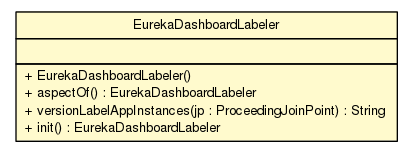
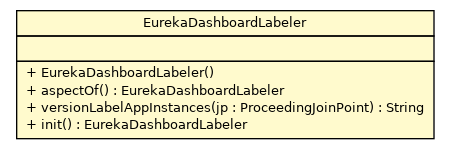
Creating site for spring-cloud-eureka-dashboard-labeler-1.0.1.U1

Changed region(s): [[0.0291, 0.0537, 0.9879, 0.9396]]

diff --git a/release/build-docker/spring-cloud-service-discovery/spring-cloud-eureka/spring-cloud-eureka-dashboard-labeler/checkstyle.html b/release/build-docker/spring-cloud-service-discovery/spring-cloud-eureka/spring-cloud-eureka-dashboard-labeler/checkstyle.html
@@ -1,13 +1,13 @@
 <!DOCTYPE html>
 <!--
- | Generated by Apache Maven Doxia Site Renderer 1.8.1 from org.apache.maven.plugins:maven-checkstyle-plugin:3.0.0:checkstyle at 2018-10-03
+ | Generated by Apache Maven Doxia Site Renderer 1.8.1 from org.apache.maven.plugins:maven-checkstyle-plugin:3.0.0:checkstyle at 2018-10-16
  | Rendered using Apache Maven Fluido Skin 1.7
 -->
 <html xmlns="http://www.w3.org/1999/xhtml" xml:lang="en" lang="en">
   <head>
     <meta charset="UTF-8" />
     <meta name="viewport" content="width=device-width, initial-scale=1.0" />
-    <meta name="Date-Revision-yyyymmdd" content="20181003" />
+    <meta name="Date-Revision-yyyymmdd" content="20181016" />
     <meta http-equiv="Content-Language" content="en" />
     <title>spring-cloud-eureka-dashboard-labeler &#x2013; Checkstyle Results</title>
     <link rel="stylesheet" href="./css/apache-maven-fluido-1.7.min.css" />
@@ -74,7 +74,7 @@
 
       <div id="breadcrumbs">
         <ul class="breadcrumb">
-        <li id="publishDate">Last Published: 2018-10-03<span class="divider">|</span>
+        <li id="publishDate">Last Published: 2018-10-16<span class="divider">|</span>
 </li>
           <li id="projectVersion">Version: 1.0.1.U1</li>
         </ul>
@@ -108,7 +108,7 @@
         <div id="bodyColumn"  class="span10" >
 <div class="section">
 <h2><a name="Checkstyle_Results"></a>Checkstyle Results</h2>
-<p>The following document contains the results of <a class="externalLink" href="http://checkstyle.sourceforge.net/">Checkstyle</a> 8.10 with https://github.com/ci-and-cd/maven-build/raw/develop/src/main/checkstyle/google_checks_8.10.xml ruleset.&#160;<a href="checkstyle.rss"><img alt="rss feed" src="images/rss.png" /></a></p></div>
+<p>The following document contains the results of <a class="externalLink" href="http://checkstyle.sourceforge.net/">Checkstyle</a> 8.10 with https://gitlab.com/ci-and-cd/maven-build/raw/develop/src/main/checkstyle/google_checks_8.10.xml ruleset.&#160;<a href="checkstyle.rss"><img alt="rss feed" src="images/rss.png" /></a></p></div>
 <div class="section">
 <h2><a name="Summary"></a>Summary</h2>
 <table border="0" class="table table-striped">

diff --git a/release/build-docker/spring-cloud-service-discovery/spring-cloud-eureka/spring-cloud-eureka-dashboard-labeler/pmd.html b/release/build-docker/spring-cloud-service-discovery/spring-cloud-eureka/spring-cloud-eureka-dashboard-labeler/pmd.html
@@ -1,6 +1,6 @@
 <!DOCTYPE html PUBLIC "-//W3C//DTD XHTML 1.0 Transitional//EN" "http://www.w3.org/TR/xhtml1/DTD/xhtml1-transitional.dtd">
-<!-- Generated by Apache Maven Doxia Site Renderer 1.7 at 2018-10-03 -->
-<html xmlns="http://www.w3.org/1999/xhtml" xml:lang="en" lang="en">
+<!-- Generated by Apache Maven Doxia Site Renderer 1.7 at 2018-10-16 -->
+<html xmlns="http://www.w3.org/1999/xhtml" xml:lang="zh" lang="zh">
   <head>
     <meta http-equiv="Content-Type" content="text/html; charset=UTF-8" />
     <title>PMD Results</title>
@@ -10,8 +10,8 @@
       @import url("./css/site.css");
     </style>
     <link rel="stylesheet" href="./css/print.css" type="text/css" media="print" />
-    <meta name="Date-Revision-yyyymmdd" content="20181003" />
-    <meta http-equiv="Content-Language" content="en" />
+    <meta name="Date-Revision-yyyymmdd" content="20181016" />
+    <meta http-equiv="Content-Language" content="zh" />
         
         </head>
   <body class="composite">
@@ -23,8 +23,8 @@
     <div id="breadcrumbs">
           
                 <div class="xleft">
-        <span id="publishDate">Last Published: 2018-10-03</span>
-                  &nbsp;| <span id="projectVersion">Version: 1.0.1.U1</span>
+        <span id="publishDate">最近更新: 2018-10-16</span>
+                  &nbsp;| <span id="projectVersion">版本: 1.0.1.U1</span>
                       </div>
             <div class="xright">      
       </div>
@@ -35,8 +35,8 @@
     <div id="leftColumn">
       <div id="navcolumn">
            
-                                      <a href="http://maven.apache.org/" title="Built by Maven" class="poweredBy">
-        <img class="poweredBy" alt="Built by Maven" src="./images/logos/maven-feather.png" />
+                                      <a href="http://maven.apache.org/" title="构建依靠 Maven" class="poweredBy">
+        <img class="poweredBy" alt="构建依靠 Maven" src="./images/logos/maven-feather.png" />
       </a>
                  
             </div>

diff --git a/release/build-docker/spring-cloud-service-discovery/spring-cloud-eureka/spring-cloud-eureka-dashboard-labeler/apidocs/cn/home1/cloud/netflix/eureka/server/EurekaDashboardLabeler.html b/release/build-docker/spring-cloud-service-discovery/spring-cloud-eureka/spring-cloud-eureka-dashboard-labeler/apidocs/cn/home1/cloud/netflix/eureka/server/EurekaDashboardLabeler.html
@@ -2,10 +2,10 @@
 <!-- NewPage -->
 <html lang="en">
 <head>
-<!-- Generated by javadoc (1.8.0_151) on Tue Oct 02 22:57:12 UTC 2018 -->
+<!-- Generated by javadoc (1.8.0_181) on Tue Oct 16 15:10:20 UTC 2018 -->
 <meta http-equiv="Content-Type" content="text/html; charset=UTF-8">
 <title>EurekaDashboardLabeler (spring-cloud-eureka-dashboard-labeler 1.0.1.U1 API)</title>
-<meta name="date" content="2018-10-02">
+<meta name="date" content="2018-10-16">
 <link rel="stylesheet" type="text/css" href="../../../../../../stylesheet.css" title="Style">
 <script type="text/javascript" src="../../../../../../script.js"></script>
 </head>
@@ -95,8 +95,8 @@ var activeTableTab = "activeTableTab";
 <div class="subTitle">cn.home1.cloud.netflix.eureka.server</div>
 <h2 title="Class EurekaDashboardLabeler" class="title">Class EurekaDashboardLabeler</h2>
 <map id="G" name="G">
-<area shape="rect" id="node1_0" href="./EurekaDashboardLabeler.html" title="cn.home1.cloud.netflix.eureka.server.EurekaDashboardLabeler" alt="" coords="16,11,397,141"/>
-<area shape="rect" id="node1" href="./EurekaDashboardLabeler.html" title="&lt;TABLE&gt;" alt="" coords="5,6,408,146"/>
+<area shape="rect" id="node1_0" href="./EurekaDashboardLabeler.html" title="cn.home1.cloud.netflix.eureka.server.EurekaDashboardLabeler" alt="" coords="16,11,433,139"/>
+<area shape="rect" id="node1" href="./EurekaDashboardLabeler.html" title="&lt;TABLE&gt;" alt="" coords="5,5,444,144"/>
 </map>
 <!-- UML diagram added by UMLGraph version R5_6-24-gf6e263 (http://www.umlgraph.org/) -->
 <div align="center"><img src="EurekaDashboardLabeler.png" alt="Package class diagram package EurekaDashboardLabeler" usemap="#G" border=0/></div>

diff --git a/release/build-docker/spring-cloud-service-discovery/spring-cloud-eureka/spring-cloud-eureka-dashboard-labeler/apidocs/cn/home1/cloud/netflix/eureka/server/package-summary.html b/release/build-docker/spring-cloud-service-discovery/spring-cloud-eureka/spring-cloud-eureka-dashboard-labeler/apidocs/cn/home1/cloud/netflix/eureka/server/package-summary.html
@@ -2,10 +2,10 @@
 <!-- NewPage -->
 <html lang="en">
 <head>
-<!-- Generated by javadoc (1.8.0_151) on Tue Oct 02 22:57:12 UTC 2018 -->
+<!-- Generated by javadoc (1.8.0_181) on Tue Oct 16 15:10:20 UTC 2018 -->
 <meta http-equiv="Content-Type" content="text/html; charset=UTF-8">
 <title>cn.home1.cloud.netflix.eureka.server (spring-cloud-eureka-dashboard-labeler 1.0.1.U1 API)</title>
-<meta name="date" content="2018-10-02">
+<meta name="date" content="2018-10-16">
 <link rel="stylesheet" type="text/css" href="../../../../../../stylesheet.css" title="Style">
 <script type="text/javascript" src="../../../../../../script.js"></script>
 </head>
@@ -72,8 +72,8 @@
 <div class="header">
 <h1 title="Package" class="title">Package&nbsp;cn.home1.cloud.netflix.eureka.server</h1>
 <map id="G" name="G">
-<area shape="rect" id="node1_0" href="./EurekaDashboardLabeler.html" title="cn.home1.cloud.netflix.eureka.server.EurekaDashboardLabeler" alt="" coords="16,11,397,141"/>
-<area shape="rect" id="node1" href="./EurekaDashboardLabeler.html" title="&lt;TABLE&gt;" alt="" coords="5,6,408,146"/>
+<area shape="rect" id="node1_0" href="./EurekaDashboardLabeler.html" title="cn.home1.cloud.netflix.eureka.server.EurekaDashboardLabeler" alt="" coords="16,11,433,139"/>
+<area shape="rect" id="node1" href="./EurekaDashboardLabeler.html" title="&lt;TABLE&gt;" alt="" coords="5,5,444,144"/>
 </map>
 <!-- UML diagram added by UMLGraph version R5_6-24-gf6e263 (http://www.umlgraph.org/) -->
 <div align="center"><img src="cn.home1.cloud.netflix.eureka.server.png" alt="Package class diagram package cn.home1.cloud.netflix.eureka.server" usemap="#G" border=0/></div>

diff --git a/release/build-docker/spring-cloud-service-discovery/spring-cloud-eureka/spring-cloud-eureka-dashboard-labeler/distribution-management.html b/release/build-docker/spring-cloud-service-discovery/spring-cloud-eureka/spring-cloud-eureka-dashboard-labeler/distribution-management.html
@@ -1,13 +1,13 @@
 <!DOCTYPE html>
 <!--
- | Generated by Apache Maven Doxia Site Renderer 1.8.1 from org.apache.maven.plugins:maven-project-info-reports-plugin:3.0.0:distribution-management at 2018-10-03
+ | Generated by Apache Maven Doxia Site Renderer 1.8.1 from org.apache.maven.plugins:maven-project-info-reports-plugin:3.0.0:distribution-management at 2018-10-16
  | Rendered using Apache Maven Fluido Skin 1.7
 -->
 <html xmlns="http://www.w3.org/1999/xhtml" xml:lang="en" lang="en">
   <head>
     <meta charset="UTF-8" />
     <meta name="viewport" content="width=device-width, initial-scale=1.0" />
-    <meta name="Date-Revision-yyyymmdd" content="20181003" />
+    <meta name="Date-Revision-yyyymmdd" content="20181016" />
     <meta http-equiv="Content-Language" content="en" />
     <title>spring-cloud-eureka-dashboard-labeler &#x2013; Project Distribution Management</title>
     <link rel="stylesheet" href="./css/apache-maven-fluido-1.7.min.css" />
@@ -74,7 +74,7 @@
 
       <div id="breadcrumbs">
         <ul class="breadcrumb">
-        <li id="publishDate">Last Published: 2018-10-03<span class="divider">|</span>
+        <li id="publishDate">Last Published: 2018-10-16<span class="divider">|</span>
 </li>
           <li id="projectVersion">Version: 1.0.1.U1</li>
         </ul>

diff --git a/release/build-docker/spring-cloud-service-discovery/spring-cloud-eureka/spring-cloud-eureka-dashboard-labeler/dependency-convergence.html b/release/build-docker/spring-cloud-service-discovery/spring-cloud-eureka/spring-cloud-eureka-dashboard-labeler/dependency-convergence.html
@@ -1,13 +1,13 @@
 <!DOCTYPE html>
 <!--
- | Generated by Apache Maven Doxia Site Renderer 1.8.1 from org.apache.maven.plugins:maven-project-info-reports-plugin:3.0.0:dependency-convergence at 2018-10-03
+ | Generated by Apache Maven Doxia Site Renderer 1.8.1 from org.apache.maven.plugins:maven-project-info-reports-plugin:3.0.0:dependency-convergence at 2018-10-16
  | Rendered using Apache Maven Fluido Skin 1.7
 -->
 <html xmlns="http://www.w3.org/1999/xhtml" xml:lang="en" lang="en">
   <head>
     <meta charset="UTF-8" />
     <meta name="viewport" content="width=device-width, initial-scale=1.0" />
-    <meta name="Date-Revision-yyyymmdd" content="20181003" />
+    <meta name="Date-Revision-yyyymmdd" content="20181016" />
     <meta http-equiv="Content-Language" content="en" />
     <title>spring-cloud-eureka-dashboard-labeler &#x2013; Reactor Dependency Convergence</title>
     <link rel="stylesheet" href="./css/apache-maven-fluido-1.7.min.css" />
@@ -74,7 +74,7 @@
 
       <div id="breadcrumbs">
         <ul class="breadcrumb">
-        <li id="publishDate">Last Published: 2018-10-03<span class="divider">|</span>
+        <li id="publishDate">Last Published: 2018-10-16<span class="divider">|</span>
 </li>
           <li id="projectVersion">Version: 1.0.1.U1</li>
         </ul>

diff --git a/release/build-docker/spring-cloud-service-discovery/spring-cloud-eureka/spring-cloud-eureka-dashboard-labeler/plugin-management.html b/release/build-docker/spring-cloud-service-discovery/spring-cloud-eureka/spring-cloud-eureka-dashboard-labeler/plugin-management.html
@@ -1,13 +1,13 @@
 <!DOCTYPE html>
 <!--
- | Generated by Apache Maven Doxia Site Renderer 1.8.1 from org.apache.maven.plugins:maven-project-info-reports-plugin:3.0.0:plugin-management at 2018-10-03
+ | Generated by Apache Maven Doxia Site Renderer 1.8.1 from org.apache.maven.plugins:maven-project-info-reports-plugin:3.0.0:plugin-management at 2018-10-16
  | Rendered using Apache Maven Fluido Skin 1.7
 -->
 <html xmlns="http://www.w3.org/1999/xhtml" xml:lang="en" lang="en">
   <head>
     <meta charset="UTF-8" />
     <meta name="viewport" content="width=device-width, initial-scale=1.0" />
-    <meta name="Date-Revision-yyyymmdd" content="20181003" />
+    <meta name="Date-Revision-yyyymmdd" content="20181016" />
     <meta http-equiv="Content-Language" content="en" />
     <title>spring-cloud-eureka-dashboard-labeler &#x2013; Project Plugin Management</title>
     <link rel="stylesheet" href="./css/apache-maven-fluido-1.7.min.css" />
@@ -74,7 +74,7 @@
 
       <div id="breadcrumbs">
         <ul class="breadcrumb">
-        <li id="publishDate">Last Published: 2018-10-03<span class="divider">|</span>
+        <li id="publishDate">Last Published: 2018-10-16<span class="divider">|</span>
 </li>
           <li id="projectVersion">Version: 1.0.1.U1</li>
         </ul>

diff --git a/release/build-docker/spring-cloud-service-discovery/spring-cloud-eureka/spring-cloud-eureka-dashboard-labeler/dependency-info.html b/release/build-docker/spring-cloud-service-discovery/spring-cloud-eureka/spring-cloud-eureka-dashboard-labeler/dependency-info.html
@@ -1,13 +1,13 @@
 <!DOCTYPE html>
 <!--
- | Generated by Apache Maven Doxia Site Renderer 1.8.1 from org.apache.maven.plugins:maven-project-info-reports-plugin:3.0.0:dependency-info at 2018-10-03
+ | Generated by Apache Maven Doxia Site Renderer 1.8.1 from org.apache.maven.plugins:maven-project-info-reports-plugin:3.0.0:dependency-info at 2018-10-16
  | Rendered using Apache Maven Fluido Skin 1.7
 -->
 <html xmlns="http://www.w3.org/1999/xhtml" xml:lang="en" lang="en">
   <head>
     <meta charset="UTF-8" />
     <meta name="viewport" content="width=device-width, initial-scale=1.0" />
-    <meta name="Date-Revision-yyyymmdd" content="20181003" />
+    <meta name="Date-Revision-yyyymmdd" content="20181016" />
     <meta http-equiv="Content-Language" content="en" />
     <title>spring-cloud-eureka-dashboard-labeler &#x2013; Dependency Information</title>
     <link rel="stylesheet" href="./css/apache-maven-fluido-1.7.min.css" />
@@ -74,7 +74,7 @@
 
       <div id="breadcrumbs">
         <ul class="breadcrumb">
-        <li id="publishDate">Last Published: 2018-10-03<span class="divider">|</span>
+        <li id="publishDate">Last Published: 2018-10-16<span class="divider">|</span>
 </li>
           <li id="projectVersion">Version: 1.0.1.U1</li>
         </ul>

diff --git a/release/build-docker/spring-cloud-service-discovery/spring-cloud-eureka/spring-cloud-eureka-dashboard-labeler/project-info.html b/release/build-docker/spring-cloud-service-discovery/spring-cloud-eureka/spring-cloud-eureka-dashboard-labeler/project-info.html
@@ -1,13 +1,13 @@
 <!DOCTYPE html>
 <!--
- | Generated by Apache Maven Doxia Site Renderer 1.8.1 from org.apache.maven.plugins:maven-site-plugin:3.7.1:CategorySummaryDocumentRenderer at 2018-10-03
+ | Generated by Apache Maven Doxia Site Renderer 1.8.1 from org.apache.maven.plugins:maven-site-plugin:3.7.1:CategorySummaryDocumentRenderer at 2018-10-16
  | Rendered using Apache Maven Fluido Skin 1.7
 -->
 <html xmlns="http://www.w3.org/1999/xhtml" xml:lang="en" lang="en">
   <head>
     <meta charset="UTF-8" />
     <meta name="viewport" content="width=device-width, initial-scale=1.0" />
-    <meta name="Date-Revision-yyyymmdd" content="20181003" />
+    <meta name="Date-Revision-yyyymmdd" content="20181016" />
     <meta http-equiv="Content-Language" content="en" />
     <title>spring-cloud-eureka-dashboard-labeler &#x2013; Project Information</title>
     <link rel="stylesheet" href="./css/apache-maven-fluido-1.7.min.css" />
@@ -74,7 +74,7 @@
 
       <div id="breadcrumbs">
         <ul class="breadcrumb">
-        <li id="publishDate">Last Published: 2018-10-03<span class="divider">|</span>
+        <li id="publishDate">Last Published: 2018-10-16<span class="divider">|</span>
 </li>
           <li id="projectVersion">Version: 1.0.1.U1</li>
         </ul>

diff --git a/release/build-docker/spring-cloud-service-discovery/spring-cloud-eureka/spring-cloud-eureka-dashboard-labeler/issue-management.html b/release/build-docker/spring-cloud-service-discovery/spring-cloud-eureka/spring-cloud-eureka-dashboard-labeler/issue-management.html
@@ -1,13 +1,13 @@
 <!DOCTYPE html>
 <!--
- | Generated by Apache Maven Doxia Site Renderer 1.8.1 from org.apache.maven.plugins:maven-project-info-reports-plugin:3.0.0:issue-management at 2018-10-03
+ | Generated by Apache Maven Doxia Site Renderer 1.8.1 from org.apache.maven.plugins:maven-project-info-reports-plugin:3.0.0:issue-management at 2018-10-16
  | Rendered using Apache Maven Fluido Skin 1.7
 -->
 <html xmlns="http://www.w3.org/1999/xhtml" xml:lang="en" lang="en">
   <head>
     <meta charset="UTF-8" />
     <meta name="viewport" content="width=device-width, initial-scale=1.0" />
-    <meta name="Date-Revision-yyyymmdd" content="20181003" />
+    <meta name="Date-Revision-yyyymmdd" content="20181016" />
     <meta http-equiv="Content-Language" content="en" />
     <title>spring-cloud-eureka-dashboard-labeler &#x2013; Issue Management</title>
     <link rel="stylesheet" href="./css/apache-maven-fluido-1.7.min.css" />
@@ -74,7 +74,7 @@
 
       <div id="breadcrumbs">
         <ul class="breadcrumb">
-        <li id="publishDate">Last Published: 2018-10-03<span class="divider">|</span>
+        <li id="publishDate">Last Published: 2018-10-16<span class="divider">|</span>
 </li>
           <li id="projectVersion">Version: 1.0.1.U1</li>
         </ul>

diff --git a/release/build-docker/spring-cloud-service-discovery/spring-cloud-eureka/spring-cloud-eureka-dashboard-labeler/project-reports.html b/release/build-docker/spring-cloud-service-discovery/spring-cloud-eureka/spring-cloud-eureka-dashboard-labeler/project-reports.html
@@ -1,13 +1,13 @@
 <!DOCTYPE html>
 <!--
- | Generated by Apache Maven Doxia Site Renderer 1.8.1 from org.apache.maven.plugins:maven-site-plugin:3.7.1:CategorySummaryDocumentRenderer at 2018-10-03
+ | Generated by Apache Maven Doxia Site Renderer 1.8.1 from org.apache.maven.plugins:maven-site-plugin:3.7.1:CategorySummaryDocumentRenderer at 2018-10-16
  | Rendered using Apache Maven Fluido Skin 1.7
 -->
 <html xmlns="http://www.w3.org/1999/xhtml" xml:lang="en" lang="en">
   <head>
     <meta charset="UTF-8" />
     <meta name="viewport" content="width=device-width, initial-scale=1.0" />
-    <meta name="Date-Revision-yyyymmdd" content="20181003" />
+    <meta name="Date-Revision-yyyymmdd" content="20181016" />
     <meta http-equiv="Content-Language" content="en" />
     <title>spring-cloud-eureka-dashboard-labeler &#x2013; Generated Reports</title>
     <link rel="stylesheet" href="./css/apache-maven-fluido-1.7.min.css" />
@@ -74,7 +74,7 @@
 
       <div id="breadcrumbs">
         <ul class="breadcrumb">
-        <li id="publishDate">Last Published: 2018-10-03<span class="divider">|</span>
+        <li id="publishDate">Last Published: 2018-10-16<span class="divider">|</span>
 </li>
           <li id="projectVersion">Version: 1.0.1.U1</li>
         </ul>

diff --git a/release/build-docker/spring-cloud-service-discovery/spring-cloud-eureka/spring-cloud-eureka-dashboard-labeler/dependencies.html b/release/build-docker/spring-cloud-service-discovery/spring-cloud-eureka/spring-cloud-eureka-dashboard-labeler/dependencies.html
@@ -1,13 +1,13 @@
 <!DOCTYPE html>
 <!--
- | Generated by Apache Maven Doxia Site Renderer 1.8.1 from org.apache.maven.plugins:maven-project-info-reports-plugin:3.0.0:dependencies at 2018-10-03
+ | Generated by Apache Maven Doxia Site Renderer 1.8.1 from org.apache.maven.plugins:maven-project-info-reports-plugin:3.0.0:dependencies at 2018-10-16
  | Rendered using Apache Maven Fluido Skin 1.7
 -->
 <html xmlns="http://www.w3.org/1999/xhtml" xml:lang="en" lang="en">
   <head>
     <meta charset="UTF-8" />
     <meta name="viewport" content="width=device-width, initial-scale=1.0" />
-    <meta name="Date-Revision-yyyymmdd" content="20181003" />
+    <meta name="Date-Revision-yyyymmdd" content="20181016" />
     <meta http-equiv="Content-Language" content="en" />
     <title>spring-cloud-eureka-dashboard-labeler &#x2013; Project Dependencies</title>
     <link rel="stylesheet" href="./css/apache-maven-fluido-1.7.min.css" />
@@ -74,7 +74,7 @@
 
       <div id="breadcrumbs">
         <ul class="breadcrumb">
-        <li id="publishDate">Last Published: 2018-10-03<span class="divider">|</span>
+        <li id="publishDate">Last Published: 2018-10-16<span class="divider">|</span>
 </li>
           <li id="projectVersion">Version: 1.0.1.U1</li>
         </ul>
